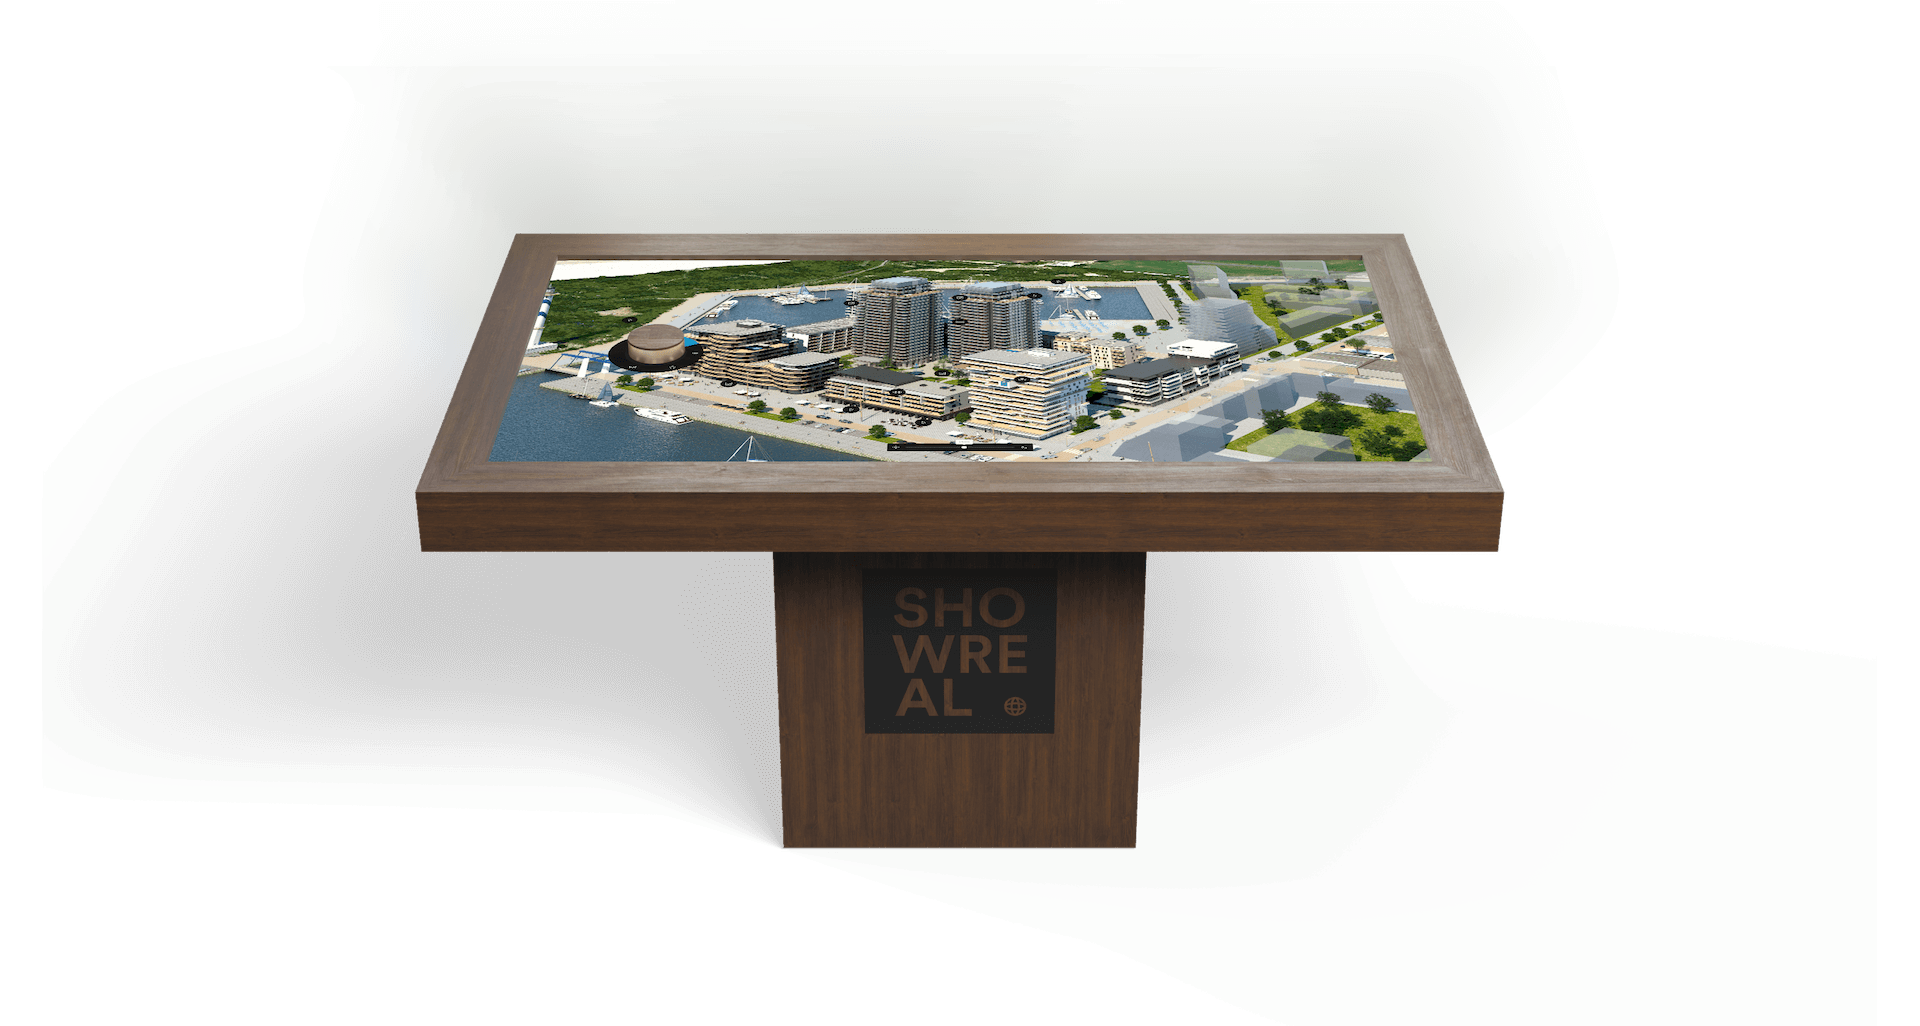
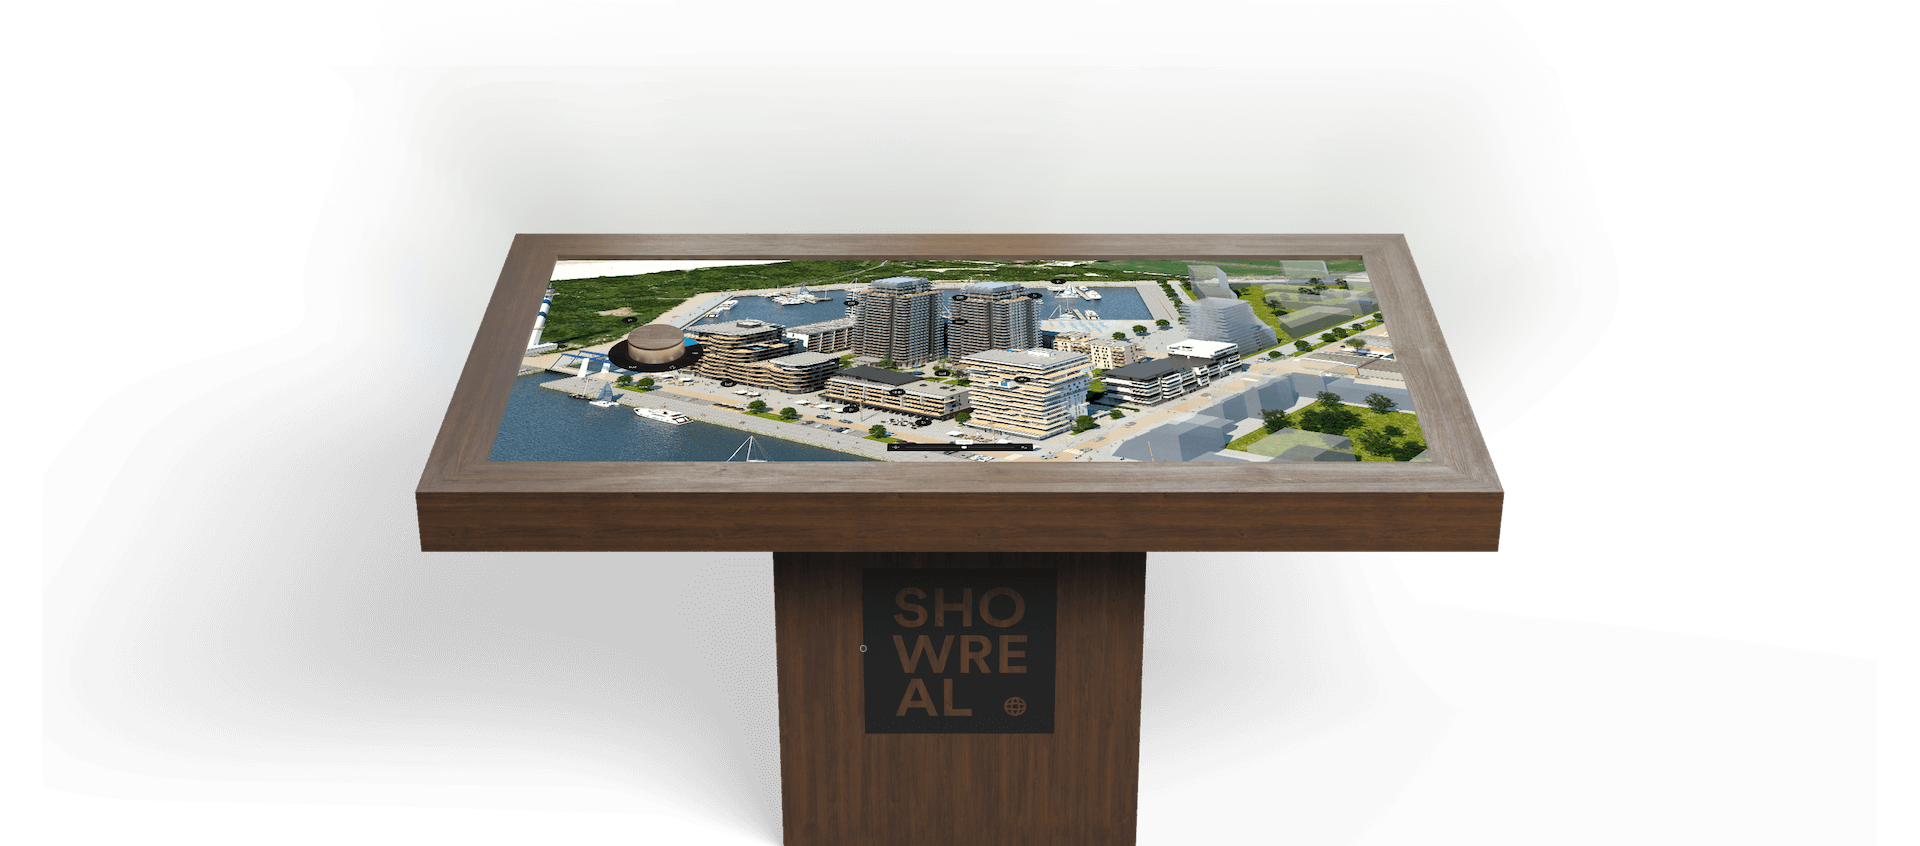
extend image component for 3d

Changed region(s): [[0.0938, 0.2151, 0.7812, 1.0]]

diff --git a/src/html/home/index.html b/src/html/home/index.html
@@ -4,43 +4,51 @@
         <p class="hero__text">and I'm a web developer from Belgium, currently looking for work.</p>
     </section>
     <section class="align-left">
-        <h2>Experience</h2>
-        <p>
-            I was product owner and lead developer of the <a href="https://showreal.immo/" target="_blank">Showreal</a>-team 
-            at <a href="https://www.nanopixel3d.com/" target="_blank">Nanopixel</a>. Showreal is an innovative, award winning 
-            sales tool for the real estate market.
-        </p>
-        <p>
-            During my spare time, I like to progress my skills in domains which aren't accessable during work hours. This way, I
-            have developed some skills in realtime development using the WebGL library <a href="https://threejs.org/" target="_blank">three.js</a>.
-        </p>
-        <a href="./assets/resume_arne_decant.pdf" class="btn" title="Download my resume" download data-component="proximity-button" data-after="Download my resume">
-            <span>Download my resume</span>
-        </a>
+        <div class="cell">
+            <h2>Experience</h2>
+            <p>
+                I was product owner and lead developer of the <a href="https://showreal.immo/" target="_blank">Showreal</a>-team 
+                at <a href="https://www.nanopixel3d.com/" target="_blank">Nanopixel</a>. Showreal is an innovative, award winning 
+                sales tool for the real estate market.
+            </p>
+            <p>
+                During my spare time, I like to progress my skills in domains which aren't accessable during work hours. This way, I
+                have developed some skills in realtime development using the WebGL library <a href="https://threejs.org/" target="_blank">three.js</a>.
+            </p>
+            <a href="./assets/resume_arne_decant.pdf" class="btn" title="Download my resume" download data-component="proximity-button" data-after="Download my resume">
+                <span>Download my resume</span>
+            </a>
+        </div>
         
-        <div class="img-group">
+        <div class="img-group cell">
             <div data-component="image" data-src="./assets/showreal-second-screen.png"></div>
             <div data-component="image" data-src="./assets/showreal-touch-table.png"></div>
         </div>
         
     </section>
-    <section class="align-right">
-        <h2>About</h2>
-        <p>
-            My name is Arne Decant and I was born and raised in Kortrijk, Belgium. I went to school to study a joined 
-            education accounting/informatics, whereafter I chose to go to college and continue in informatics. I studied 
-            <a href="https://www.mct.be" target="_blank">MCT</a> (Multimedia and Communication Technology) at 
-            <a href="https://www.howest.be" target="_blank">Howest</a>, University College of West Flanders, and finished 
-            my education in June 2014.
-        </p>
-        <p>
-            I wrote my first line of HTML in 2009, when I was 15, but only learned how to do so properly 2 years after, 
-            during my first year in college. In 2014 I started my first job as a frontend webdeveloper and worked on several websites
-            and applications for the local police departments and clients in the event sector. In 2018 I started at 
-            <a href="https://www.nanopixel3d.com" target="_blank">Nanopixel</a>, an award-winning 3D visualisations company located in Roeselare.
-            There, I was product owner and lead developer of <a href="https://showreal.immo/" target="_blank">Showreal</a>, working for
-            clients like Versluys, Degroote, ION, Vestio and many more from the real estate market.
-       </p>
+    <section class="align-right no-image">
+        <!-- <div class="img-group cell-start">
+            <div data-component="image" data-src="./assets/arne-decant.jpg"></div>
+        </div> -->
+        <div class="cell" data-component="image" data-context="3d" data-src="./assets/arne-decant.jpg"></div>
+        <div class="cell">
+            <h2>About</h2>
+            <p>
+                My name is Arne Decant and I was born and raised in Kortrijk, Belgium. I went to school to study a joined 
+                education accounting/informatics, whereafter I chose to go to college and continue in informatics. I studied 
+                <a href="https://www.mct.be" target="_blank">MCT</a> (Multimedia and Communication Technology) at 
+                <a href="https://www.howest.be" target="_blank">Howest</a>, University College of West Flanders, and finished 
+                my education in June 2014.
+            </p>
+            <p>
+                I wrote my first line of code in 2009, when I was 15, but only learned how to do so properly 2 years after, 
+                during my first year in college. In 2014 I started my first job as a frontend webdeveloper and worked on several websites
+                and applications for the local police departments and clients in the event sector. In 2018 I started at 
+                <a href="https://www.nanopixel3d.com" target="_blank">Nanopixel</a>, an award-winning 3D visualisations company located in Roeselare.
+                There, I was product owner and lead developer of <a href="https://showreal.immo/" target="_blank">Showreal</a>, working for
+                clients like Versluys, Degroote, ION, Vestio and many more from the real estate market.
+            </p>
+        </div>
     </section>
     <section class="align-center">
         <h2>Playground</h2>

diff --git a/src/js/app.js b/src/js/app.js
@@ -43,10 +43,6 @@ class App {
 		window.addEventListener('mousemove', this.mousemove.bind(this))
 		document.body.addEventListener('click', this.click.bind(this))
 
-		// setup all components
-
-		this.$components.forEach(($component) => this.setupComponent($component))
-
 		// init
 
 		this.init()
@@ -61,13 +57,26 @@ class App {
 	}
 
 	async init() {
+
+		// get data
 		
 		this.data = await this.fetch()
 
+		// setup all components
+
+		// this.$components.forEach(($component, index) => this.setupComponent($component, index))
+		// this.components['proximity-button'].forEach((c, i) => c.setInstance(this.instances.buttons[i]))
+
+		new Promise((resolve, reject) => {
+			this.$components.forEach(($component, index) => this.setupComponent($component, index, { resolve, reject }))
+		}).then(() => {
+			this.components['proximity-button'].forEach((c, i) => c.setInstance(this.instances.buttons[i]))
+		})
+
+		// scroll stuff
+
 		this.createInstances()
 		this.scrollUpdates()
-
-		this.components['proximity-button'].forEach((c, i) => c.setInstance(this.instances.buttons[i]))
 
 		requestAnimationFrame(() => {
 			window.scrollTo(0, 0)
@@ -77,7 +86,7 @@ class App {
 
 	}
 
-	setupComponent($component) {
+	setupComponent($component, index, promise = {}) {
 
 		// Dynamically create new component instances from data-attributes
 		// e.g. [data-component="my-component"]
@@ -94,7 +103,11 @@ class App {
 		// this.components['my-component'] to get the desired components array
 
 		if (!this.components[name]) this.components[name] = []
-		this.components[name].push(new CLASSES[component]($component))
+		this.components[name].push(new CLASSES[component]($component, this.data.instances.default))
+
+		// resolve promise, if any
+
+		if (promise.resolve && index === this.$components.length - 1) promise.resolve()
 
 	}
 
@@ -167,7 +180,12 @@ class App {
 			const textEnd = (i + 1) * step
 			const $section = this.$sections[i]
 
-			uos(transitionBegin, transitionEnd, p => (this.instances.sections[i].phenomenon.uniforms.time.value = p))
+			uos(transitionBegin, transitionEnd, p => {
+
+				this.instances.sections[i].phenomenon.uniforms.time.value = p
+				// this.$sections.forEach(($s) => ($s != $section) && $s.classList.remove('active'))
+
+			})
 
 			uos(transitionEnd, textEnd, p => {
 
@@ -183,6 +201,8 @@ class App {
 				if (opacity > 0) {
 					this.$sections.forEach(($s) => ($s != $section) && $s.classList.remove('active'))
 					$section.classList.add('active')
+				} else {
+					// $section.classList.remove('active')
 				}
 
 			})

diff --git a/src/js/components/image.js b/src/js/components/image.js
@@ -9,18 +9,34 @@
 // Todo: find a way to fix this or transpile for es6
 
 import Component from "../base/component"
+import Engine from "../engine"
+import { hcfp } from '../utilities/three'
 
 export default class Image extends Component {
 
-    constructor(selector) {
+    constructor(selector, data) {
 
-        super(selector, true)
+        super(selector)
+
+        this.data = data
+
+        this.init()
 
     }
 
     init() {
 
         this.src = this.element.dataset.src
+        this.context = this.element.dataset.context || '2d'
+
+        switch (this.context.toLowerCase()) {
+            case '3d': return this.init3D()
+            default: return this.init2D()
+        }
+
+    }
+
+    init2D() {
 
         const $picture = this.$template.content.cloneNode(true)
         const $img = $picture.querySelector('img')
@@ -28,6 +44,22 @@ export default class Image extends Component {
         $img.src = this.src
 
         this.element.appendChild($picture)
+
+    }
+
+    init3D() {
+
+        const engine = new Engine({ container: this.element })
+
+        const geometry = new THREE[this.data.geometry.type](...this.data.geometry.parameters)
+        const material = new THREE[this.data.material.type]({
+            ...this.data.material.parameters,
+            emissive: hcfp(this.data.material.parameters.emissive)
+        })
+
+        const mesh = new THREE.Mesh(geometry, material)
+
+        engine.scene.add(mesh)
 
     }
 

diff --git a/src/sass/base/_layout.scss b/src/sass/base/_layout.scss
@@ -36,7 +36,6 @@ canvas {
 
 section {
 	display: flex;
-	flex-direction: column;
 	justify-content: flex-start;
 	align-items: flex-start;
 
@@ -50,15 +49,48 @@ section {
 	color: white;
 	height: 100vh;
 	width: 100%;
-	padding: 5vh 5vw;
+	overflow-y: auto;
+	padding: 0 5vw;
 
 	// will-change: opacity;
+}
+
+section > .cell {
+	padding: 5vh 0;
+	height: 100%;
+}
+
+section > .cell:first-child {
+	align-self: flex-start;
+	flex: 0 0 60%;
+}
+
+section > .cell:last-child {
+	align-self: flex-end;
+	flex: 0 0 40%;
+}
+
+section > .cell.img-group {
+	padding: 0;
 }
 
 section.align-right {
 	// justify-content: flex-end;
 	align-items: flex-end;
 	text-align: right;
+}
+
+section.align-right > .cell:first-child {
+	flex: 0 0 40%;
+}
+
+section.align-right > .cell:last-child {
+	flex: 0 0 60%;
+}
+
+section.align-center,
+section.no-cells {
+	flex-direction: column;
 }
 
 section.align-center {
@@ -88,6 +120,30 @@ p {
 
 p + p {
 	margin-top: 0;
+}
+
+.cell:first-child > p {
+	margin-right: 5vw;
+}
+
+.cell:last-child > p {
+	margin-left: 5vw;
+}
+
+.img-group {
+	display: flex;
+	flex-direction: column;
+	align-items: flex-end;
+	justify-content: flex-end;
+	font-size: 0;
+}
+
+.img-group.cell {
+	padding: 0;
+}
+
+.img-group.cell:first-child {
+	align-items: flex-end;
 }
 
 @media screen and (min-width: 53em) {

diff --git a/src/sass/components/_image.scss b/src/sass/components/_image.scss
@@ -1,6 +1,5 @@
 .img-group {
     max-width: 50%;
-    display: none;
 }
 
 img {
